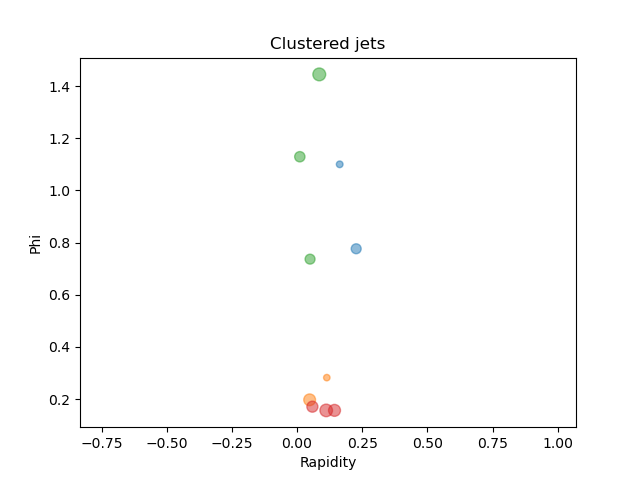
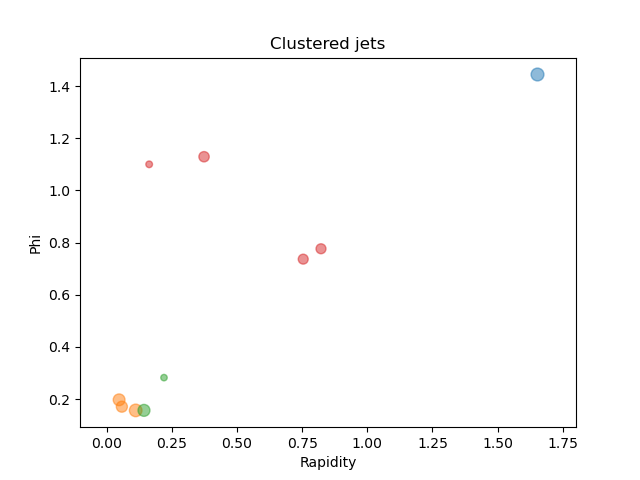
changed example

diff --git a/README.md b/README.md
@@ -48,8 +48,8 @@ import numpy as np
 from spectraljet import Components, FormJets
 particle_pxs = np.array([9.38, 2.83, 1.44, 35.53, 9.63, 9.01, 40.14, 23.39, 60.08, 6.84])
 particle_pys = np.array([9.21, 0.82, 2.83, 7.09, 8.73, 71.23, 6.33, 4.03, 9.47, 14.47])
-particle_pzs = np.array([15.90, 5.11, 9.03, 83.61, 34.53, 52.26, 52.26, 91.19, 56.76, 5.39])
-particle_energies = np.array([321.36, 145.06, 515.77, 739.28, 695.15, 616.06, 366.81, 557.71, 510.49, 518.79])
+particle_pzs = np.array([115.90, 53.11, 9.03, 83.61, 634.53, 572.26, 52.26, 91.19, 56.76, 185.39])
+particle_energies = np.array([171.36, 245.06, 55.77, 1739.28, 995.15, 616.06, 366.81, 1557.71, 510.49, 518.79])
 ```
 
 Define the parameters of the clustering algorithm
